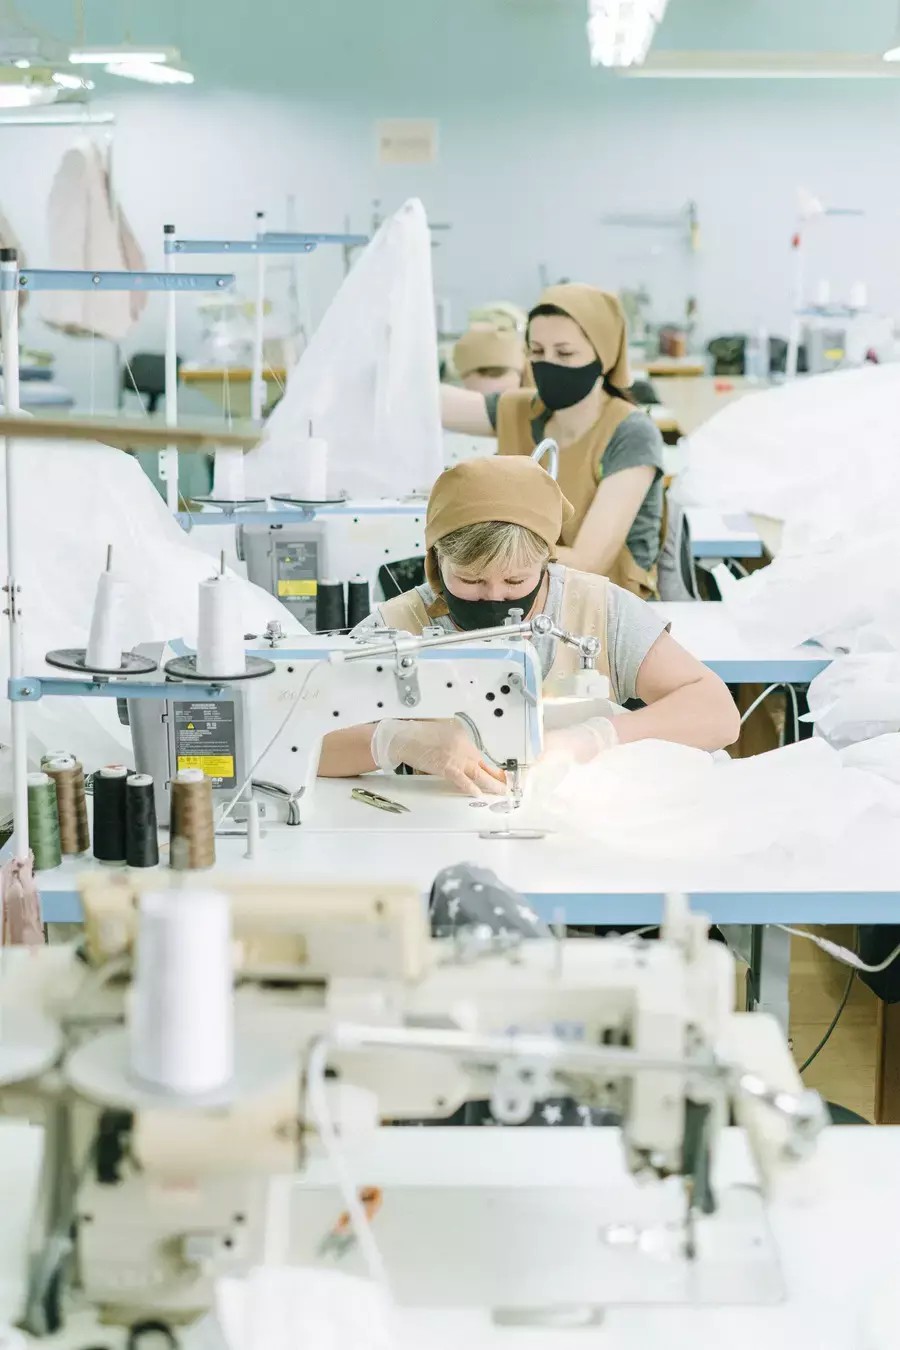
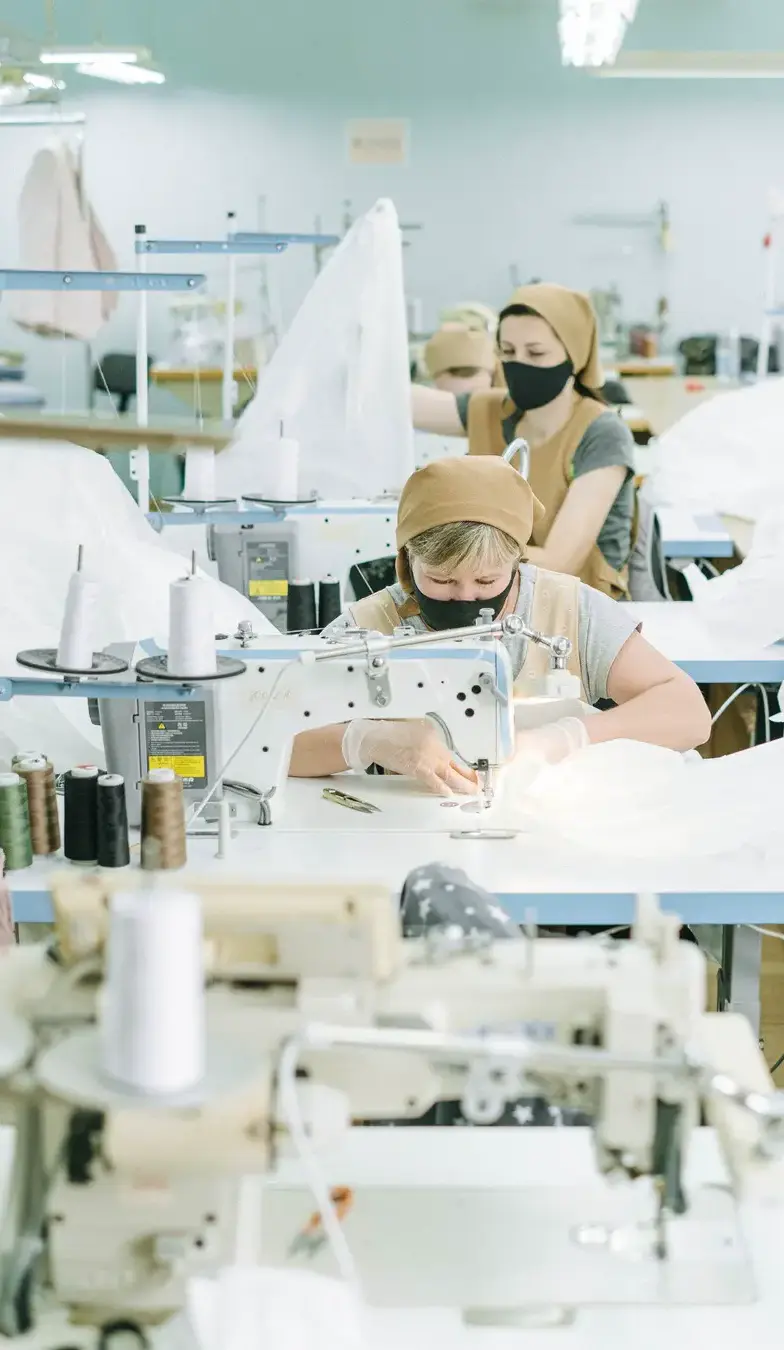
Complete About Page Responsiveness

diff --git a/about.html b/about.html
@@ -98,13 +98,20 @@
               <div class="text-center mt-4 mb-4 page-heading">
                 <h1>How did it all start?</h1>
               </div>
-              <div class="row mb-4">
-                <div class="col-6">
+              <div class="row my-3 d-xl-none">
+                <div class="col-12">
+                  <div class="image-about-box">
+                    <img src="./assets/images/about-small-image.webp" alt="Materials in a warehouse.">
+                  </div>
+                </div>
+              </div>
+              <div class="row justify-content-center mb-4">
+                <div class="d-none d-xl-flex col-xl-6">
                   <div class="image-about-box">
                     <img src="./assets/images/about-image.webp" alt="A woman working in manufacturing.">
                   </div>
                 </div>
-                <div class="col-6 bg-blue p-4">
+                <div class="col-12 col-md-10 col-xl-6 bg-blue p-4">
                   <p class="font-italic fwlight">Angela Lawlor, CEO</p>
                   <p>During my 5 years working for a large Automotive Manufacturer I often wondered why there weren't more young people coming into the industry, particularly women. It was during lockdown 2020, having spent some months attending webinars and Zooms around UK Manufacturing that I realised how much the industry was struggling to encourage young people to consider a career within the industry. About the same time I came across a post on LinkedIn about Manufacturing Festivals and thought what a fantastic idea, why don't we have more of these around the country? Surely these would give manufacturers an opportunity to showcase what they do and what career options they have available.</p>
                   <p>Some months later I held my first webinar "How do we make Manufacturing more attractive to the younger generation?"  The overall message which came out of this webinar was lack of engagement by manufacturers along with Careers Leaders lack of knowledge of the industry.</p>
